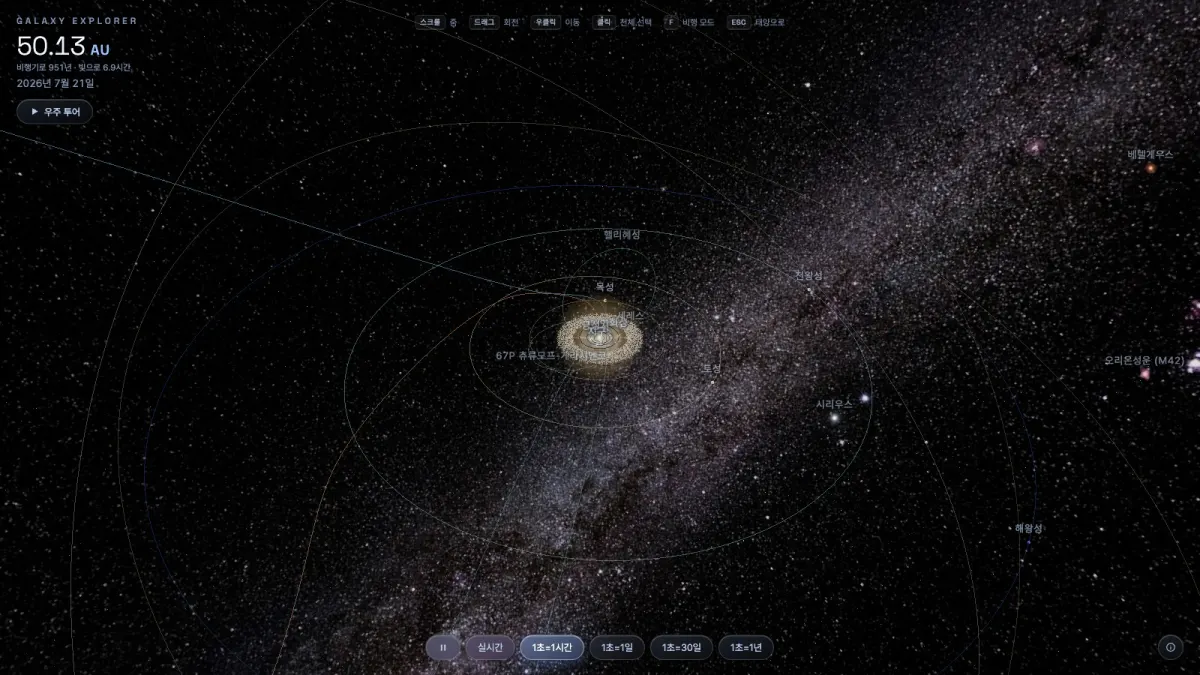
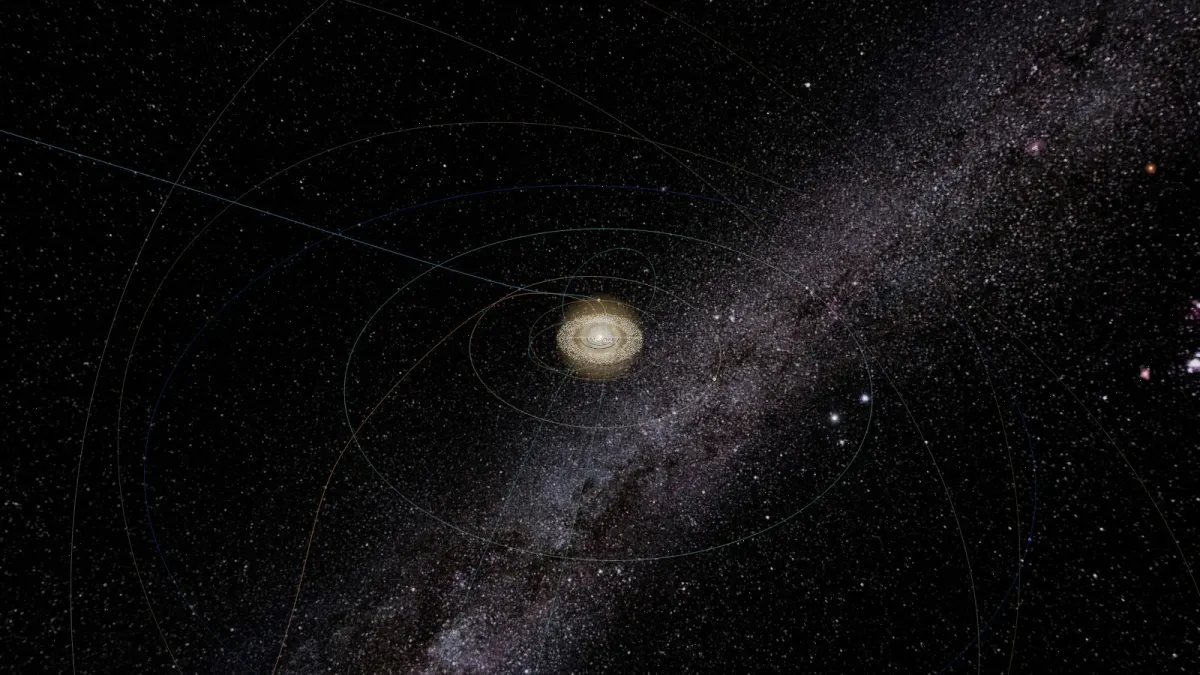
feat: 토이 프로젝트 소개 문구 정리·링크별 설명·스크린샷 최신 빌드로 재촬영
- 소개 문구를 두 문장으로 줄이고 Galaxy Explorer / Seoul Explorer 링크 아래 각각 설명 추가
- 우주 컷을 최신 빌드로 재촬영(태양계·목성·토성·유로파·이오 목성 일식·칼리스토 은하수)
- 광화문광장 조감 추가, 광장의 밤 컷 제거

diff --git a/widgets/about/ui/about-body.tsx b/widgets/about/ui/about-body.tsx
@@ -30,25 +30,19 @@ function SectionHeading({
 
 const galaxyShots = [
   { src: "/images/projects/galaxy-home.webp", alt: "태양계 전경과 은하수" },
+  { src: "/images/projects/galaxy-jupiter.webp", alt: "목성" },
+  { src: "/images/projects/galaxy-saturn.webp", alt: "토성과 고리" },
   {
-    src: "/images/projects/galaxy-saturn.webp",
-    alt: "고리 그림자가 드리운 토성",
+    src: "/images/projects/galaxy-europa.webp",
+    alt: "유로파 얼음 지평선 위로 떠오른 목성",
   },
   {
-    src: "/images/projects/galaxy-voyager.webp",
-    alt: "성간 공간의 보이저 1호",
+    src: "/images/projects/galaxy-io-eclipse.webp",
+    alt: "이오에서 본 목성 일식",
   },
   {
-    src: "/images/projects/galaxy-milkyway.webp",
-    alt: "달 표면 위로 떠오른 은하수",
-  },
-  {
-    src: "/images/projects/galaxy-apollo11.webp",
-    alt: "달 표면 아폴로 11 착륙 지점",
-  },
-  {
-    src: "/images/projects/galaxy-olympus.webp",
-    alt: "화성 올림푸스 몬스 정상의 실측 지형",
+    src: "/images/projects/galaxy-callisto.webp",
+    alt: "칼리스토에서 본 은하수",
   },
   { src: "/images/projects/galaxy-giza.webp", alt: "스핑크스와 기자 피라미드" },
   {
@@ -56,10 +50,13 @@ const galaxyShots = [
     alt: "아이슬란드 키르큐페들의 오로라",
   },
   {
+    src: "/images/projects/galaxy-seoul-aerial.webp",
+    alt: "하늘에서 본 광화문광장과 북악산",
+  },
+  {
     src: "/images/projects/galaxy-seoul.webp",
     alt: "세종대왕상 너머 광화문광장",
   },
-  { src: "/images/projects/galaxy-seoul-night.webp", alt: "광화문광장의 밤" },
   {
     src: "/images/projects/galaxy-palace-aerial.webp",
     alt: "실측 스캔으로 재현한 경복궁 조감",
@@ -67,6 +64,21 @@ const galaxyShots = [
   {
     src: "/images/projects/galaxy-gyeongbokgung.webp",
     alt: "근정전과 조정 박석",
+  },
+];
+
+const projectLinks = [
+  {
+    label: "Galaxy Explorer",
+    href: "https://galaxy-explorer-kappa.vercel.app",
+    description:
+      "아폴로 11 기지, 올림푸스 몬스, 이오의 화산부터 에베레스트·기자 피라미드·아이슬란드 오로라까지 30여 곳의 명소에 내려설 수 있고, 실제 날짜의 일식·월식과 대기 산란, 보이저 1호가 찍은 창백한 푸른 점까지 재현했습니다.",
+  },
+  {
+    label: "Seoul Explorer",
+    href: "https://seoul-explorer.vercel.app",
+    description:
+      "Galaxy Explorer의 서울 착륙지를 떼어 따로 제작한 서울 버전입니다. OpenStreetMap과 국가유산청 실측 스캔으로 다시 지은 광화문광장과 경복궁, 지하철역까지 걸어서 둘러볼 수 있습니다.",
   },
 ];
 
@@ -87,35 +99,29 @@ function ToyProject() {
       </div>
       <p className="text-sm leading-relaxed text-muted-foreground">
         태양계부터 은하까지 스크롤 하나로 끊김 없이 탐험하는 3D 우주 웹앱입니다.
-        실제 궤도·항성 데이터로 천체를 배치했고, 행성에 착륙해 1인칭으로 걸어
-        다닐 수 있습니다. 서울에 내려서면 OpenStreetMap과 국가유산청 실측
-        스캔으로 다시 지은 광화문광장과 경복궁이 펼쳐집니다.
+        실제 궤도·항성 데이터로 천체를 배치했고, 행성의 유명 스팟에 착륙해
+        1인칭으로 걸어 다닐 수 있습니다.
       </p>
       <p className="border-l-2 border-blue-500 pl-3 text-sm font-medium text-foreground dark:border-blue-400">
         전부 Claude Code를 사용해 제작했습니다. 코드를 직접 쓰는 대신 무엇을
         만들지 정하고, 결과를 확인하고 다듬는 데 집중했습니다.
       </p>
-      <div className="flex flex-wrap gap-x-4 gap-y-1 text-sm">
-        {[
-          {
-            label: "Galaxy Explorer",
-            href: "https://galaxy-explorer-kappa.vercel.app",
-          },
-          {
-            label: "Seoul Explorer",
-            href: "https://seoul-explorer.vercel.app",
-          },
-        ].map((link) => (
-          <a
-            key={link.href}
-            href={link.href}
-            target="_blank"
-            rel="noopener noreferrer"
-            className="inline-flex items-center gap-1 text-blue-500 transition-colors hover:underline dark:text-blue-400"
-          >
-            {link.label}
-            <ExternalLink size={14} />
-          </a>
+      <div className="flex flex-col gap-4 text-sm">
+        {projectLinks.map((link) => (
+          <div key={link.href} className="flex flex-col gap-1">
+            <a
+              href={link.href}
+              target="_blank"
+              rel="noopener noreferrer"
+              className="inline-flex w-fit items-center gap-1 font-semibold text-blue-500 transition-colors hover:underline dark:text-blue-400"
+            >
+              {link.label}
+              <ExternalLink size={14} />
+            </a>
+            <p className="leading-relaxed text-muted-foreground">
+              {link.description}
+            </p>
+          </div>
         ))}
       </div>
       <div className="grid grid-cols-1 gap-3 sm:grid-cols-2">
